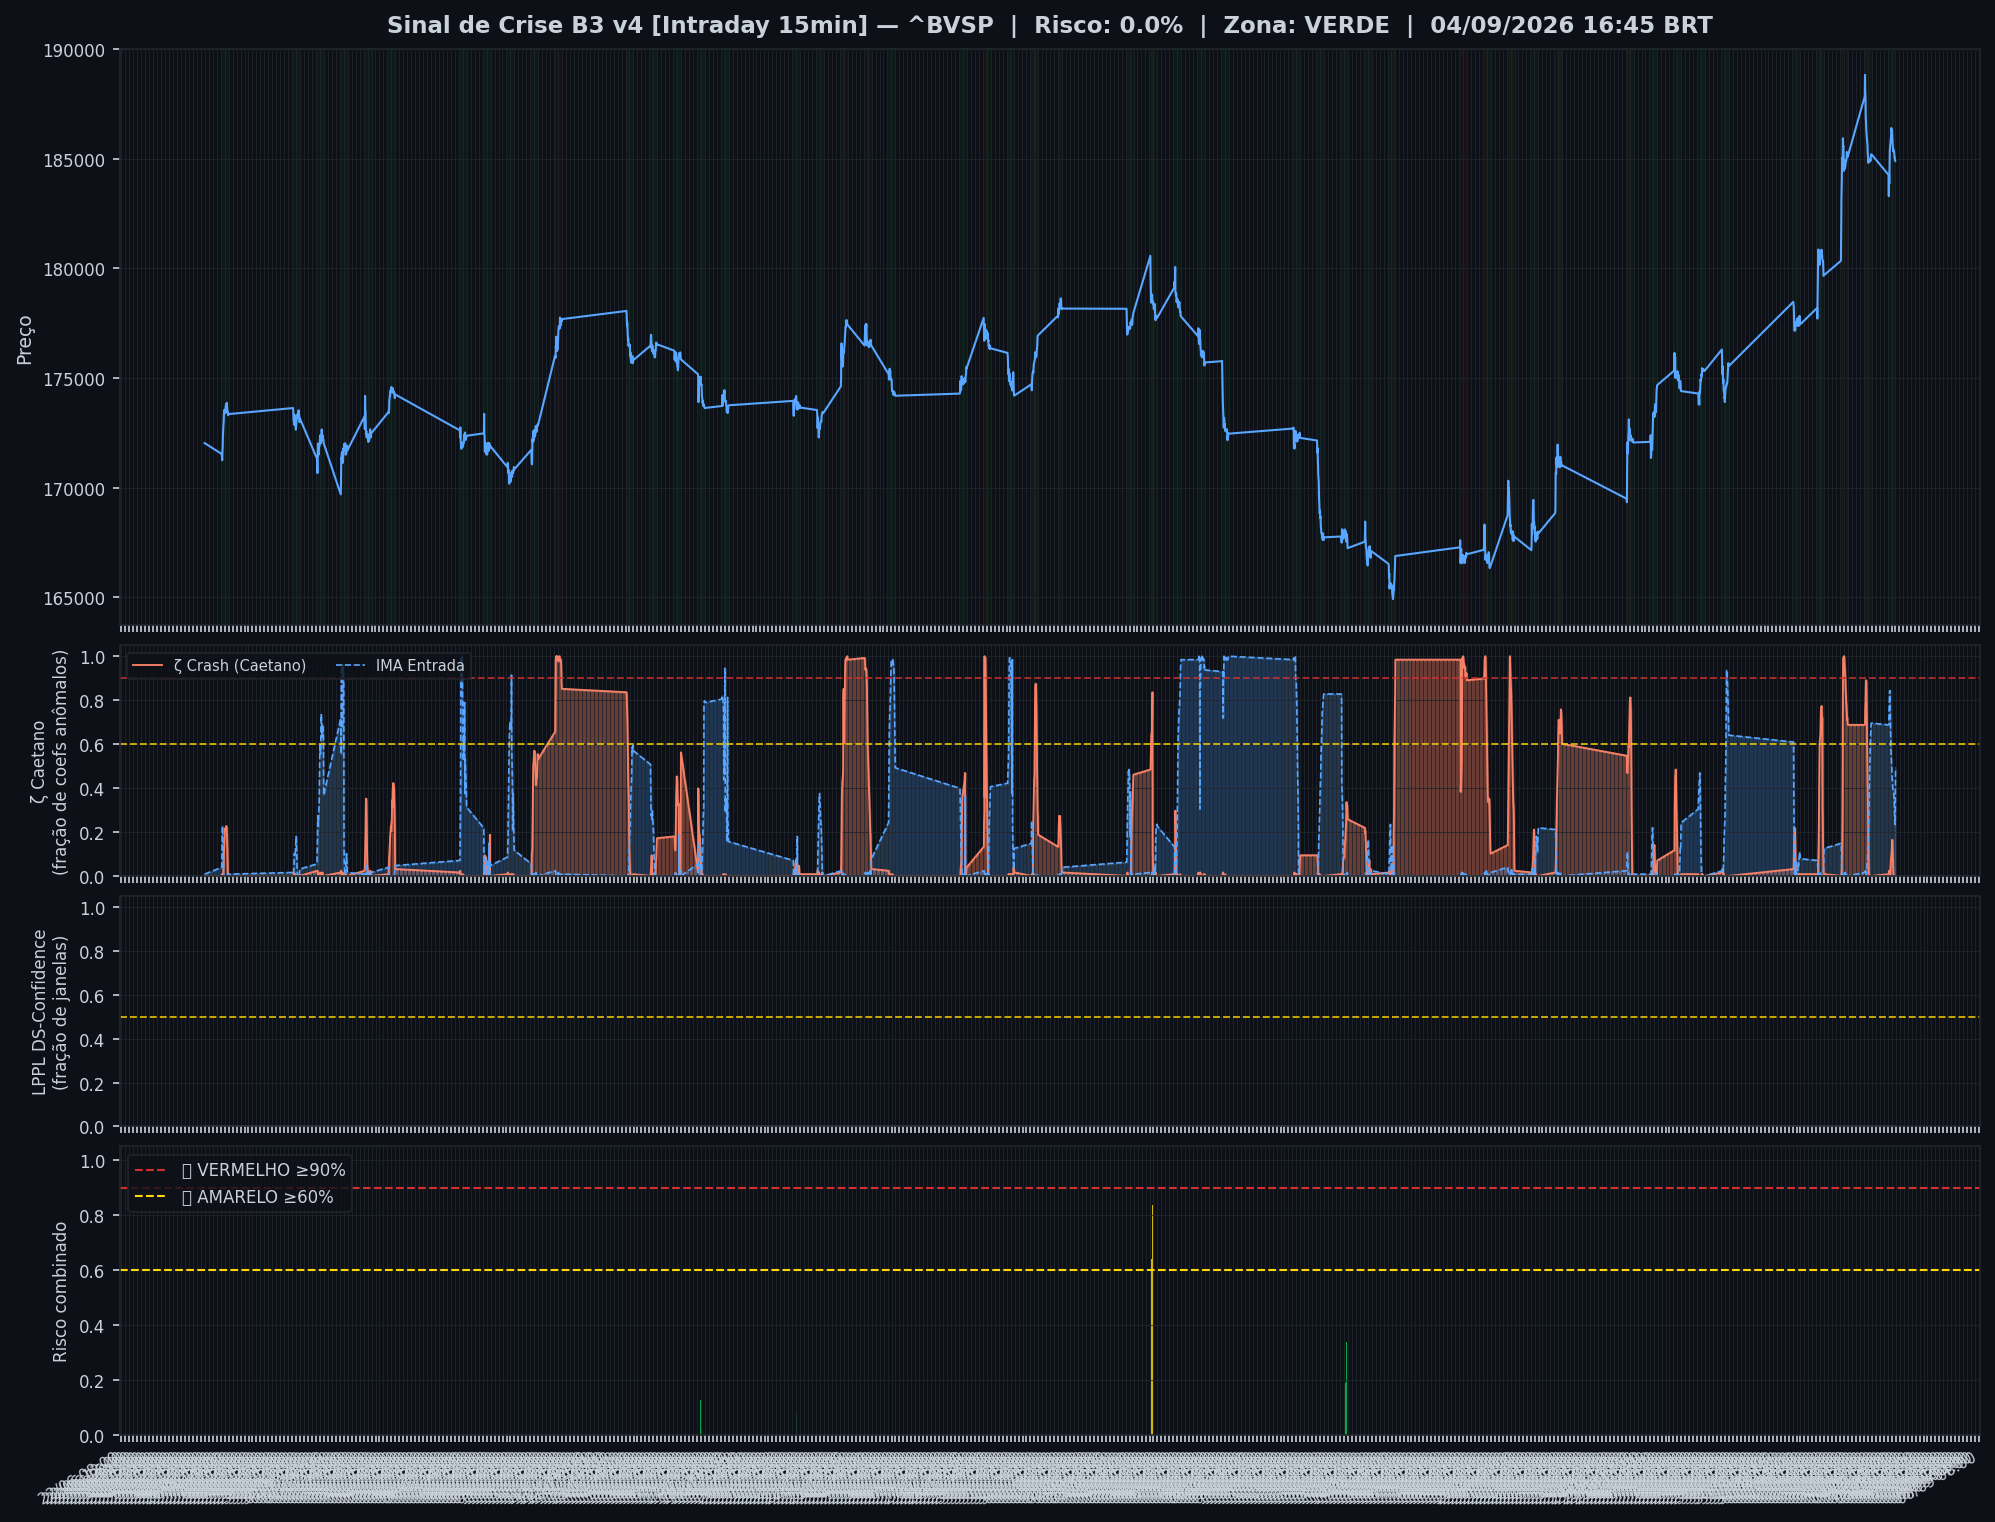
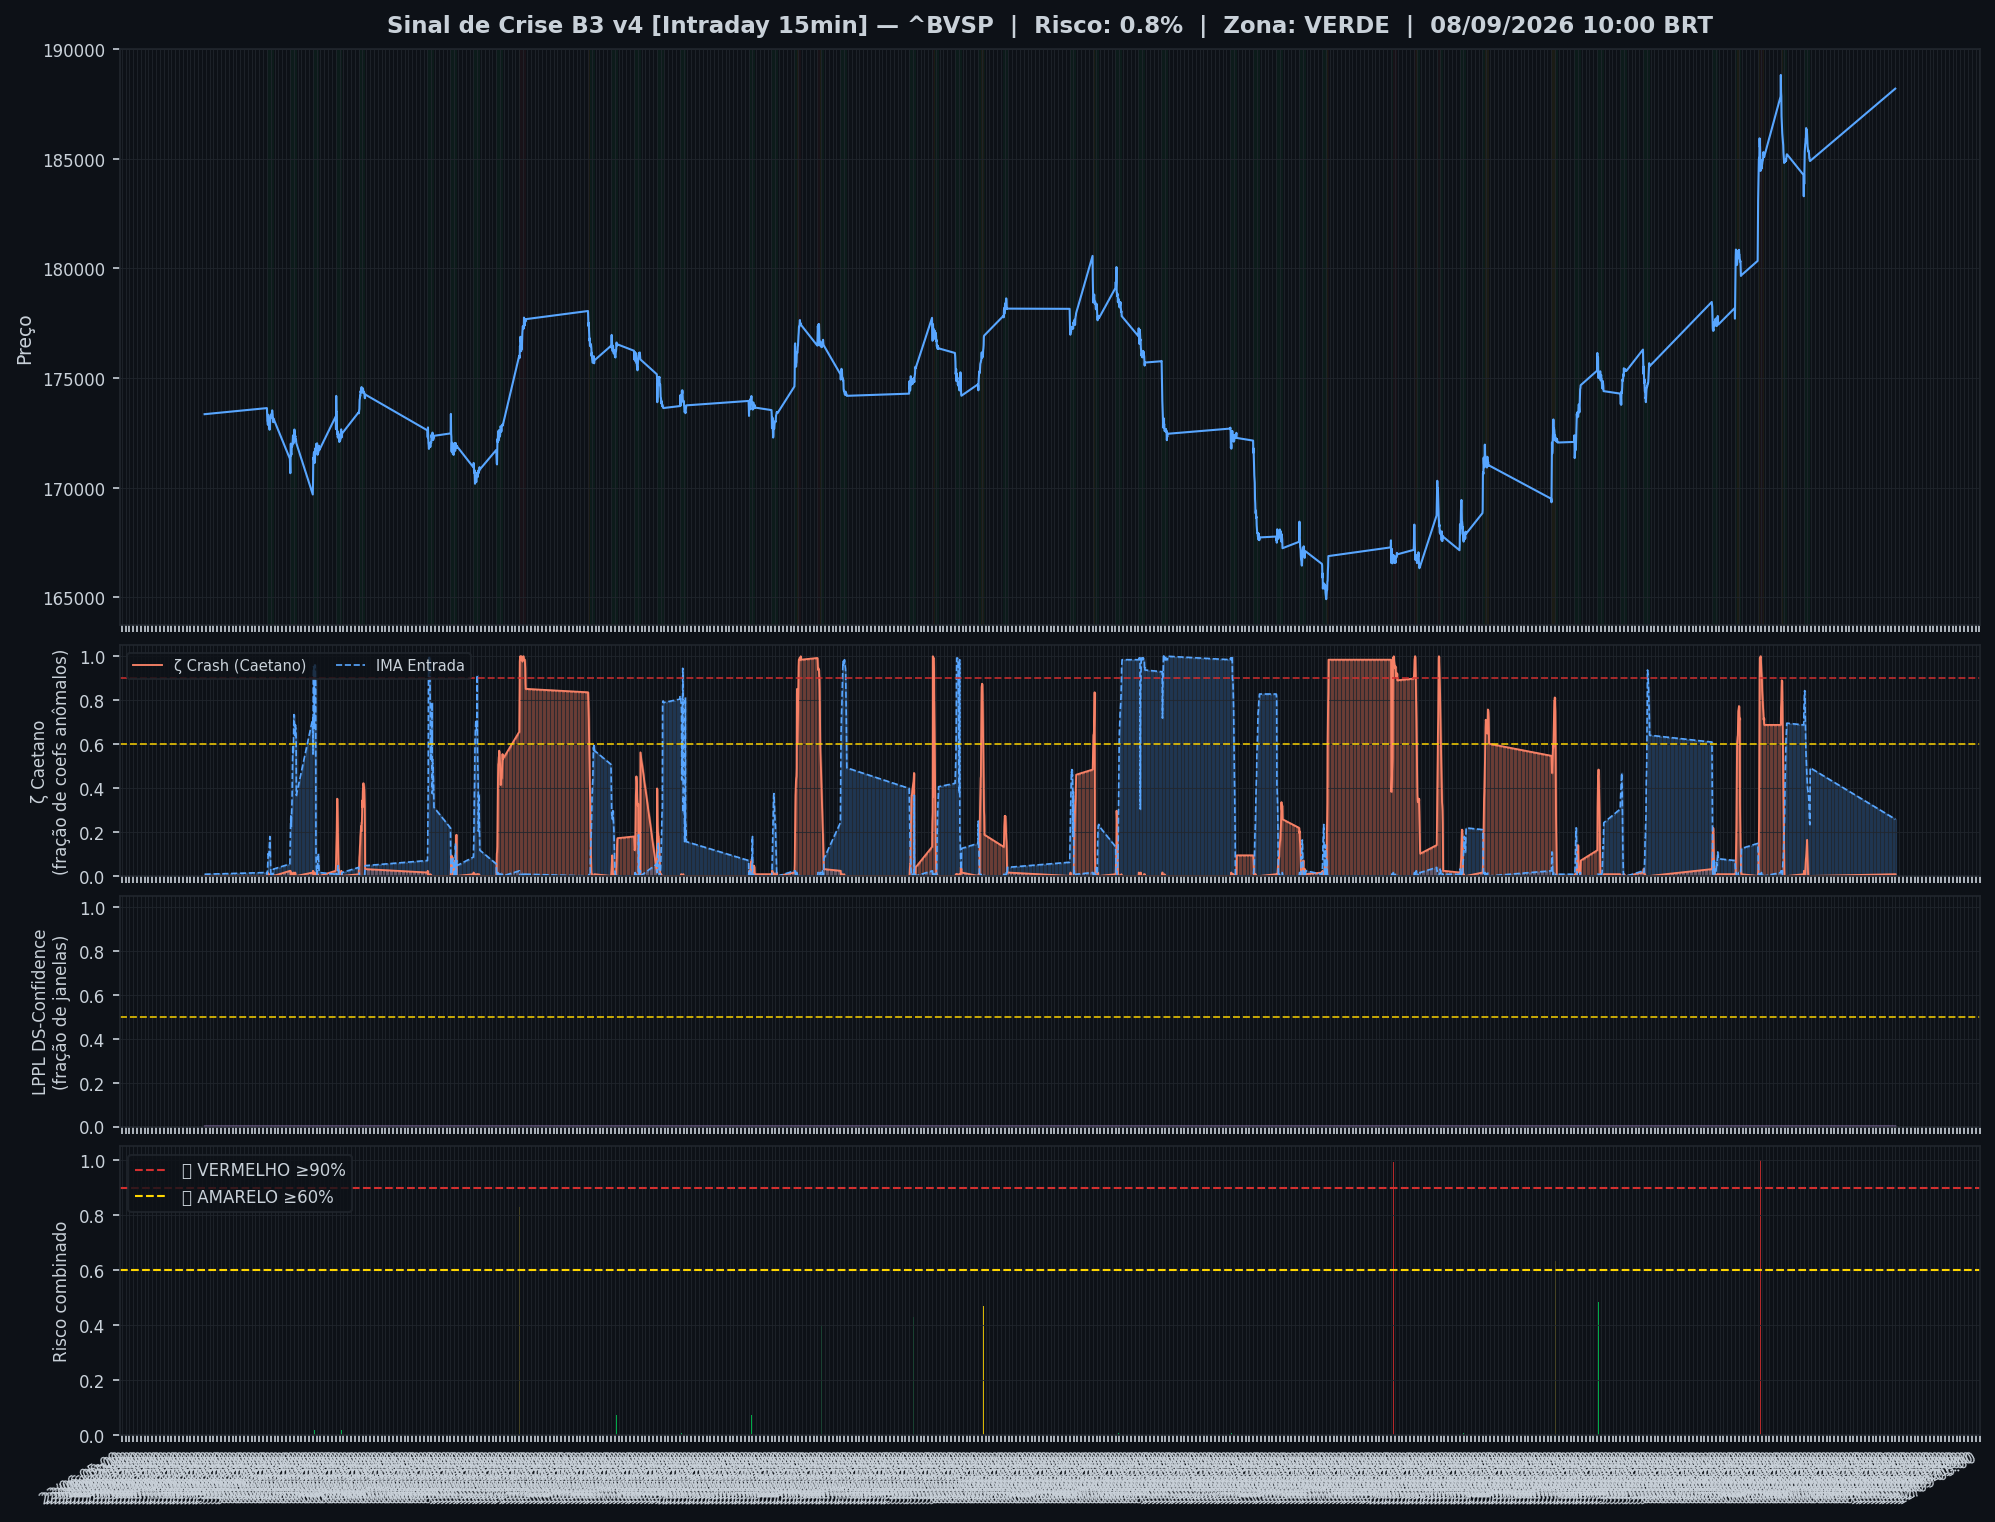
🤖 Auto: Sinal 08/09/2026 10:45

diff --git a/content/intraday/2026-09-08.md b/content/intraday/2026-09-08.md
@@ -1,0 +1,105 @@
+---
+title: "🟢 Intraday 08/09/2026 10:00 BRT — VERDE"
+date: 2026-09-08
+tags: [intraday]
+---
+
+> [!success] 🟢 **VERDE** — Risco 1% · ▲ +1 p.p. vs leitura anterior
+> `░░░░░░░░░░░░░░░░░░░░`
+> Mercado sem sinais relevantes de estresse.
+
+
+| Indicador | Valor |
+|---|---|
+| 🔴 ζ Crash — severidade da queda em curso | **1%** |
+| 🔵 ζ Entrada — estrutura de fundo | 26% |
+| 🫧 LPPL DS-Confidence | 0% |
+| 📊 Ibovespa | 188.193 pts |
+
+![Gráfico do sinal](../graficos/sinal_intraday.png)
+
+## Últimos 30 pregões
+
+| Data | Zona | Risco | IMA Crash | Entrada | LPPL |
+|---|---|---|---|---|---|
+| 2026-09-08 10:00 | 🟢 VERDE | **1%** | 1% | 26% | 0% |
+| 2026-09-04 16:45 | 🟢 VERDE | **0%** | 0% | 49% | 0% |
+| 2026-09-04 16:30 | 🟢 VERDE | **0%** | 0% | 23% | 0% |
+| 2026-09-04 16:15 | 🟢 VERDE | **0%** | 0% | 23% | 0% |
+| 2026-09-04 16:00 | 🟢 VERDE | **0%** | 0% | 25% | 0% |
+| 2026-09-04 15:45 | 🟢 VERDE | **0%** | 0% | 29% | 0% |
+| 2026-09-04 15:30 | 🟢 VERDE | **0%** | 0% | 33% | 0% |
+| 2026-09-04 15:15 | 🟢 VERDE | **0%** | 0% | 35% | 0% |
+| 2026-09-04 15:00 | 🟢 VERDE | **0%** | 0% | 37% | 0% |
+| 2026-09-04 14:45 | 🟢 VERDE | **0%** | 0% | 38% | 0% |
+| 2026-09-04 14:30 | 🟢 VERDE | **2%** | 2% | 38% | 0% |
+| 2026-09-04 14:15 | 🟢 VERDE | **5%** | 5% | 39% | 0% |
+| 2026-09-04 14:00 | 🟢 VERDE | **9%** | 9% | 40% | 0% |
+| 2026-09-04 13:45 | 🟢 VERDE | **13%** | 13% | 41% | 0% |
+| 2026-09-04 13:30 | 🟢 VERDE | **16%** | 16% | 44% | 0% |
+| 2026-09-04 13:15 | 🟢 VERDE | **14%** | 14% | 46% | 0% |
+| 2026-09-04 13:00 | 🟢 VERDE | **12%** | 12% | 48% | 0% |
+| 2026-09-04 12:45 | 🟢 VERDE | **10%** | 10% | 52% | 0% |
+| 2026-09-04 12:30 | 🟢 VERDE | **9%** | 9% | 55% | 0% |
+| 2026-09-04 12:15 | 🟢 VERDE | **8%** | 8% | 57% | 0% |
+| 2026-09-04 12:00 | 🟢 VERDE | **6%** | 6% | 62% | 0% |
+| 2026-09-04 11:45 | 🟢 VERDE | **4%** | 4% | 66% | 0% |
+| 2026-09-04 11:30 | 🟢 VERDE | **2%** | 2% | 73% | 0% |
+| 2026-09-04 11:15 | 🟢 VERDE | **0%** | 0% | 80% | 0% |
+| 2026-09-04 11:00 | 🟢 VERDE | **0%** | 0% | 84% | 0% |
+| 2026-09-04 10:45 | 🟢 VERDE | **1%** | 1% | 84% | 0% |
+| 2026-09-04 10:30 | 🟢 VERDE | **2%** | 2% | 79% | 0% |
+| 2026-09-04 10:15 | 🟢 VERDE | **2%** | 2% | 77% | 0% |
+| 2026-09-04 10:00 | 🟢 VERDE | **1%** | 1% | 69% | 0% |
+| 2026-09-03 16:45 | 🟢 VERDE | **0%** | 0% | 70% | 0% |
+
+## Monitor Multi-Ativo
+
+**0% dos ativos em tensão** (0🔴 0🟡) — quanto mais ativos disparam juntos, mais confiável o sinal.
+
+| Zona | Ativo | Setor | IMA Crash | IMA Entrada |
+|---|---|---|---|---|
+| 🟢 | **VALE** | Mineração | 1.6% | 89.8% |
+| 🟢 | **ITAUUNIBANCO** | Financeiro | 1.6% | 89.8% |
+| 🟢 | **PETROBRAS** | Petróleo | 1.6% | 89.8% |
+| 🟢 | **PETROBRAS** | Petróleo | 1.6% | 89.8% |
+| 🟢 | **AXIA ENERGIA** | Energia | 1.6% | 89.8% |
+| 🟢 | **SABESP** | Saneamento | 1.6% | 89.8% |
+| 🟢 | **BRADESCO** | Financeiro | 1.6% | 89.8% |
+| 🟢 | **B3** | Financeiro | 1.6% | 89.8% |
+| 🟢 | **ITAUSA** | Financeiro | 1.6% | 89.8% |
+| 🟢 | **WEG** | Industrial | 1.6% | 89.8% |
+| 🟢 | **BTGP BANCO** | Financeiro | 1.6% | 89.8% |
+| 🟢 | **EMBRAER** | Outros | 1.6% | 89.8% |
+| 🟢 | **BRASIL** | Financeiro | 1.6% | 89.8% |
+| 🟢 | **AMBEV S/A** | Consumo | 1.6% | 89.8% |
+| 🟢 | **ENEVA** | Energia | 1.6% | 89.8% |
+| 🟢 | **EQUATORIAL** | Energia | 1.6% | 89.8% |
+| 🟢 | **COPEL** | Energia | 1.6% | 89.8% |
+| 🟢 | **PRIO** | Petróleo | 1.6% | 89.8% |
+| 🟢 | **VIBRA** | Energia | 1.6% | 89.8% |
+| 🟢 | **ULTRAPAR** | Outros | 1.6% | 89.8% |
+| 🟢 | **REDE D OR** | Saúde | 1.6% | 89.8% |
+| 🟢 | **LOCALIZA** | Aluguel | 1.6% | 89.8% |
+| 🟢 | **GERDAU** | Siderurgia | 1.6% | 89.8% |
+| 🟢 | **SUZANO S.A.** | Papel/Celulose | 1.6% | 89.8% |
+| 🟢 | **RAIADROGASIL** | Outros | 1.6% | 89.8% |
+| 🟢 | **BBSEGURIDADE** | Financeiro | 1.6% | 89.8% |
+| 🟢 | **USD/BRL** | Câmbio | 0.8% | 96.1% |
+
+![Monitor multi-ativo](../graficos/multi_intraday.png)
+
+*Página atualizada em 08/09/2026 10:45 BRT (leitura da barra de 2026-09-08 10:00 BRT).*
+
+> [!info]- Como interpretar (clique para expandir)
+> - **ζ Crash**: fração dos coeficientes wavelet acima do corte (Caetano & Yoneyama 2009). Escala absoluta: ζ=0,90 = 90% dos coeficientes anômalos — historicamente, quedas com ζ≥0,90 foram mais fundas e mais longas. **Mede a severidade do movimento em curso, não prevê o início da queda.**
+> - **ζ Entrada**: coeficientes negativos além do corte — estrutura de fundo, possível região de compra.
+> - **LPPL DS-Confidence**: fração de janelas (60–504 pregões) em que o modelo de bolha de Sornette produz um ajuste válido. 30% já é relevante; acima de 50% é forte evidência de estrutura de bolha.
+> - **Zonas com histerese**: o sinal só muda de zona ao cruzar o limiar de entrada, e só volta ao cruzar o de saída — evita flip-flop diário.
+
+
+---
+*Sinal de Crise B3 v4 · IMA Wavelet ([Caetano & Yoneyama, Physica-A 2007](https://doi.org/10.1016/j.physa.2007.03.054)) + LPPL DS-Confidence (Sornette, ETH-Zurich) · [Metodologia](metodologia) · [Histórico](historico)*
+
+> [!quote]- Aviso
+> Estudo acadêmico. Não constitui recomendação de investimento.

diff --git a/content/index.md b/content/index.md
@@ -1,6 +1,6 @@
 ---
 title: Sinal de Crise B3
-date: 2026-09-07
+date: 2026-09-08
 tags: [home]
 ---
 
@@ -8,19 +8,19 @@ tags: [home]
 
 Monitoramento diário e intraday do Ibovespa — **IMA Wavelet** (Prof. Marco Antonio Leonel Caetano, ITA/INSPER) + **LPPL DS-Confidence** (Prof. Didier Sornette, ETH-Zurich).
 
-*Última atualização: 07/09/2026 19:00 BRT · ^BVSP · Diário D1 · v4*
+*Última atualização: 08/09/2026 10:45 BRT · ^BVSP · Intraday 15min · v4*
 
-> [!success] 🟢 **VERDE** — Risco 6% · ▲ +3 p.p. vs leitura anterior
-> `█░░░░░░░░░░░░░░░░░░░`
+> [!success] 🟢 **VERDE** — Risco 1% · ▲ +1 p.p. vs leitura anterior
+> `░░░░░░░░░░░░░░░░░░░░`
 > Mercado sem sinais relevantes de estresse.
 
 
 | Indicador | Valor |
 |---|---|
-| 🔴 ζ Crash — severidade da queda em curso | **10%** |
-| 🔵 ζ Entrada — estrutura de fundo | 1% |
+| 🔴 ζ Crash — severidade da queda em curso | **1%** |
+| 🔵 ζ Entrada — estrutura de fundo | 26% |
 | 🫧 LPPL DS-Confidence | 0% |
-| 📊 Ibovespa | 185.147 pts |
+| 📊 Ibovespa | 188.193 pts |
 
 **Multi-ativo:** 0% em tensão (0🔴 0🟡 de 27 ativos)
 
@@ -32,13 +32,9 @@ Monitoramento diário e intraday do Ibovespa — **IMA Wavelet** (Prof. Marco An
 
 | Data | Zona | Risco | IMA | LPPL |
 |---|---|---|---|---|
-| [03 Sep 2026](diario/2026-09-03) | 🟢 VERDE | **6%** | 10% | 0% |
-| [02 Sep 2026](diario/2026-09-02) | 🟢 VERDE | **3%** | 5% | 0% |
-| [01 Sep 2026](diario/2026-09-01) | 🟢 VERDE | **8%** | 14% | 0% |
-| [31 Aug 2026](diario/2026-08-31) | 🟢 VERDE | **8%** | 12% | 0% |
-| [30 Aug 2026](diario/2026-08-30) | 🟢 VERDE | **8%** | 12% | 0% |
-| [27 Aug 2026](diario/2026-08-27) | 🟢 VERDE | **6%** | 9% | 0% |
-| [26 Aug 2026](diario/2026-08-26) | 🟢 VERDE | **4%** | 6% | 0% |
+| [08 Sep 2026](diario/2026-09-08) | 🟢 VERDE | **1%** | 1% | 0% |
+| [04 Sep 2026](diario/2026-09-04) | 🟢 VERDE | **0%** | 0% | 0% |
+| [03 Sep 2026](diario/2026-09-03) | 🟢 VERDE | **0%** | 0% | 0% |
 
 ## Navegação
 

diff --git a/content/historico.md b/content/historico.md
@@ -7,6 +7,7 @@ tags: [historico]
 
 | Data | Modo | Zona | Risco | IMA | LPPL |
 |---|---|---|---|---|---|
+| 2026-09-08 10:00 | intraday | 🟢 VERDE | 1% | 1% | 0% |
 | 2026-09-03 | diario | 🟢 VERDE | 6% | 10% | 0% |
 | 2026-09-04 16:45 | intraday | 🟢 VERDE | 0% | 0% | 0% |
 | 2026-09-04 16:30 | intraday | 🟢 VERDE | 0% | 0% | 0% |
